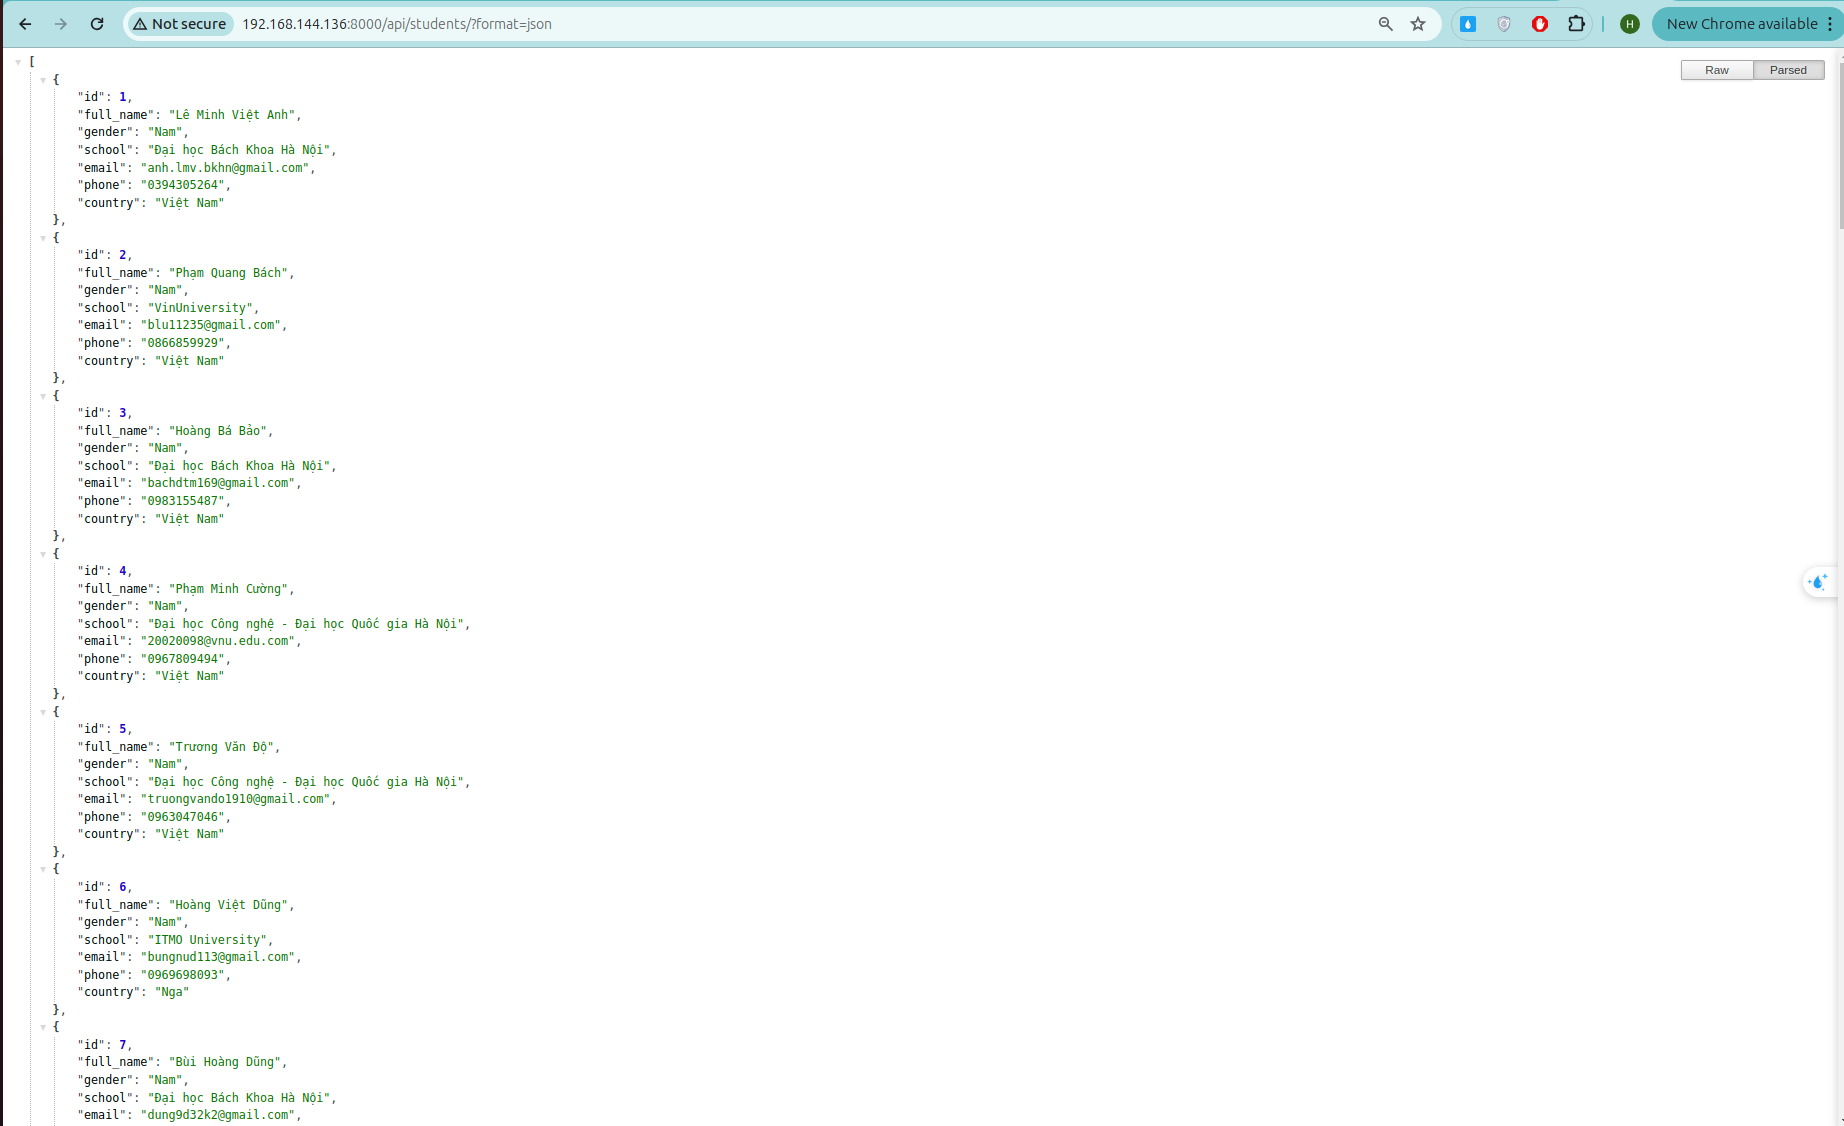
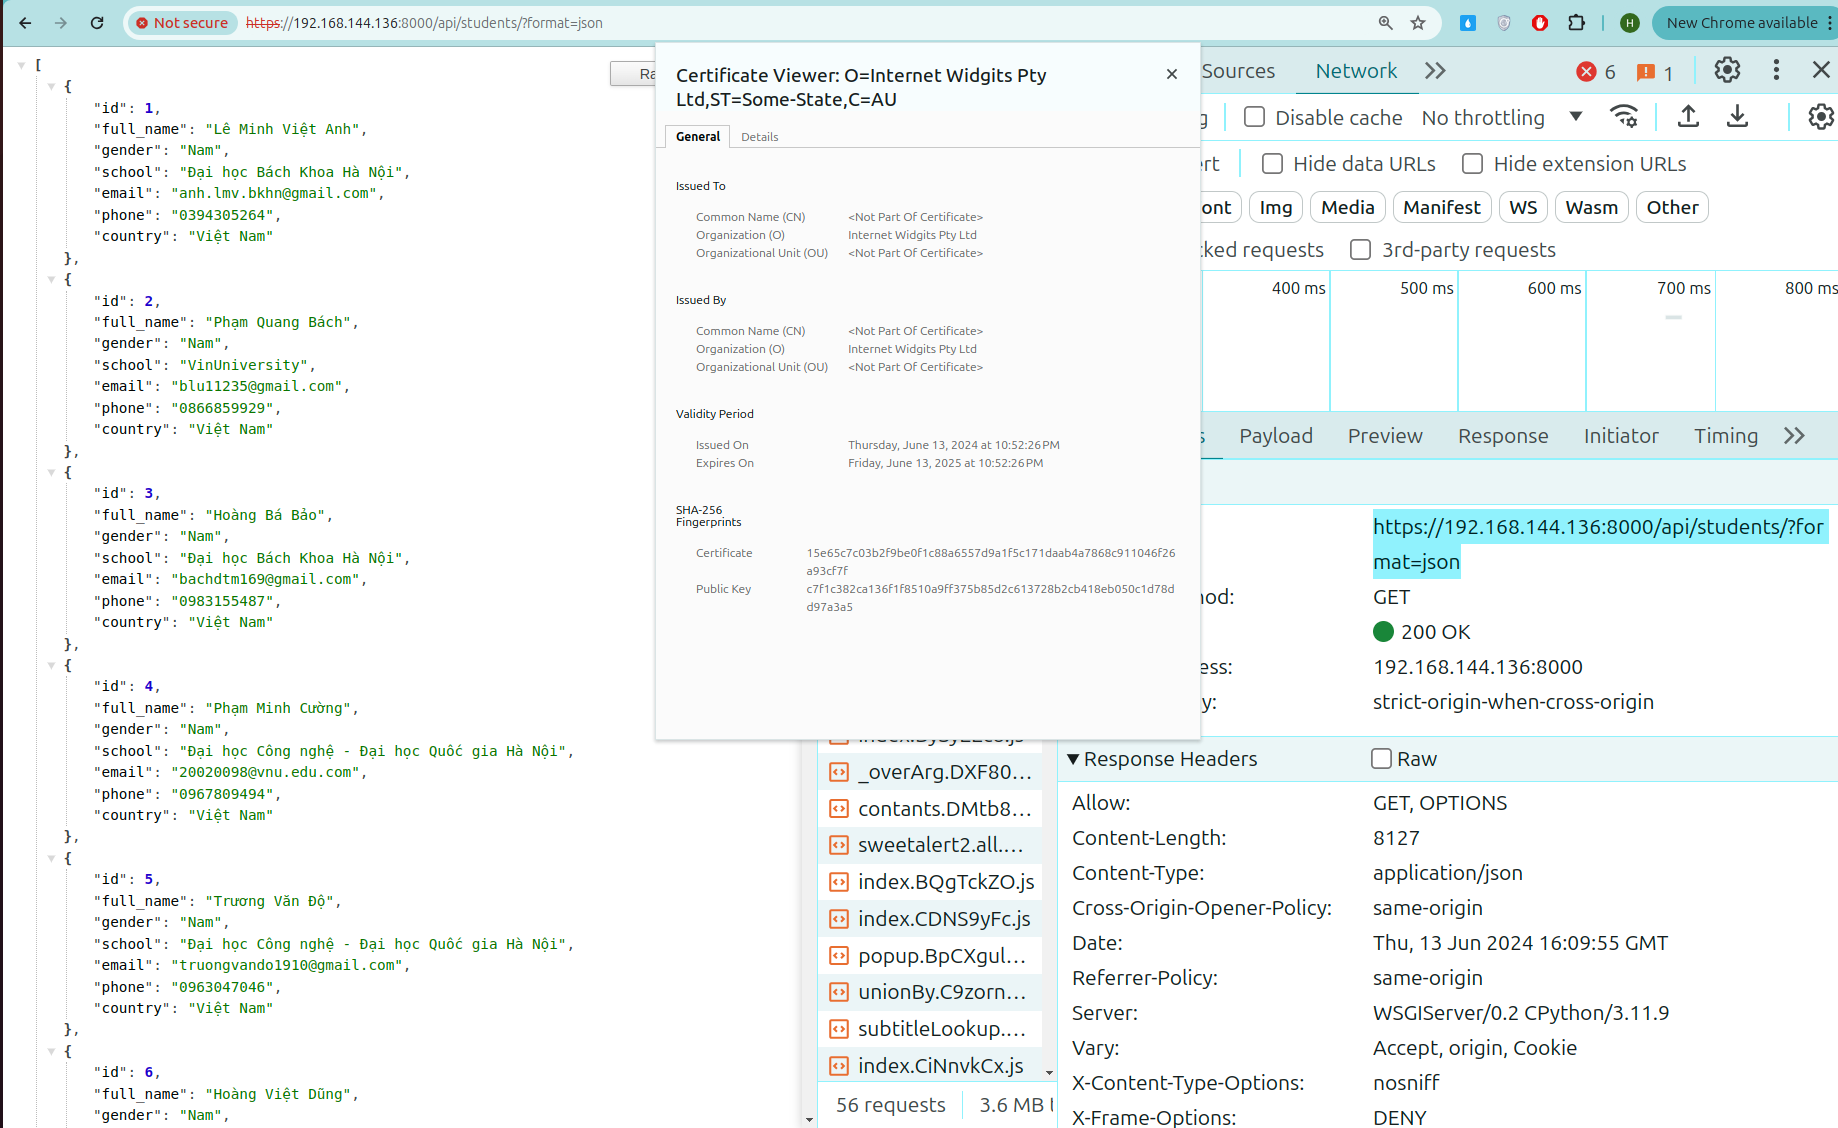
Update Security/Security.md

diff --git a/BuiHoangVinh-cuoi-ky-gd-1/6. Security/Security.md b/BuiHoangVinh-cuoi-ky-gd-1/6. Security/Security.md
@@ -9,47 +9,51 @@
 VM Master node có IP: 192.168.144.143
 VM Worker node có IP: 192.168.144.145
 Chạy trên 1 VM Mới có IP là 192.168.144.136
+
+### Tạo self signed cert:
+```
+# cài đặt OpenSSL
+sudo apt-get install openssl
+
+# Tạo chứng chỉ tự ký
+sudo openssl req -new -x509 -key /etc/ssl/private/haproxy-selfsigned.key -out /etc/ssl/certs/haproxy-selfsigned.crt -days 365
+
+# Kết hợp khóa và chứng chỉ thành file PEM
+cat /etc/ssl/private/haproxy-selfsigned.key /etc/ssl/certs/haproxy-selfsigned.crt > /etc/ssl/private/haproxy.pem
+```
+
+### Haproxy được cấu hính sử dụng SSL https với chứng chỉ self signed cert
+
+File haproxy.cfg
 ```
 global
-        log /dev/log    local0
-        log /dev/log    local1 notice
-        chroot /var/lib/haproxy
-        stats socket /run/haproxy/admin.sock mode 660 level admin expose-fd listeners
-        stats timeout 30s
-        user haproxy
-        group haproxy
-        daemon
+    log /dev/log    local0
+    log /dev/log    local1 notice
+    chroot /var/lib/haproxy
+    stats socket /run/haproxy/admin.sock mode 660 level admin
+    stats timeout 30s
+    user haproxy
+    group haproxy
+    daemon
 
-        # Default SSL material locations
-        ca-base /etc/ssl/certs
-        crt-base /etc/ssl/private
-
-        # See: https://ssl-config.mozilla.org/#server=haproxy&server-version=2.0.3&config=intermediate
-        ssl-default-bind-ciphers ECDHE-ECDSA-AES128-GCM-SHA256:ECDHE-RSA-AES128-GCM-SHA256:ECDHE-ECDSA-AES256-GCM-SHA384:ECDHE-RSA-AES256-GCM-SHA384:ECDHE-ECDSA-CHACHA20-POLY1305:ECDHE-RSA-CHACHA20-POLY1305:DHE-RSA-AES128-GCM-SHA256:DHE-RSA-AES256-GCM-SHA384
-        ssl-default-bind-ciphersuites TLS_AES_128_GCM_SHA256:TLS_AES_256_GCM_SHA384:TLS_CHACHA20_POLY1305_SHA256
-        ssl-default-bind-options ssl-min-ver TLSv1.2 no-tls-tickets
+    # Tuning SSL
+    tune.ssl.default-dh-param 2048
 
 defaults
-        log     global
-        mode    http
-        option  httplog
-        option  dontlognull
-        timeout connect 5000
-        timeout client  50000
-        timeout server  50000
-        errorfile 400 /etc/haproxy/errors/400.http
-        errorfile 403 /etc/haproxy/errors/403.http
-        errorfile 408 /etc/haproxy/errors/408.http
-        errorfile 500 /etc/haproxy/errors/500.http
-        errorfile 502 /etc/haproxy/errors/502.http
-        errorfile 503 /etc/haproxy/errors/503.http
-        errorfile 504 /etc/haproxy/errors/504.http
+    log     global
+    mode    http
+    option  httplog
+    option  dontlognull
+    timeout connect 5000
+    timeout client  50000
+    timeout server  50000
+
 frontend web_port_in
-    bind *:3000
+    bind *:3000 ssl crt /etc/ssl/private/haproxy.pem #file chứng chỉ
     mode tcp
     default_backend web_port_out
 frontend api_port_in
-    bind *:8000
+    bind *:8000 ssl crt /etc/ssl/private/haproxy.pem #file chứng chỉ
     mode tcp
     default_backend api_port_out
 backend web_port_out
@@ -63,11 +67,15 @@ backend api_port_out
     server api1 192.168.144.143:30002 check
     server api2 192.168.144.145:30002 check
 ```
+
+
 ## Kết quả:
-Truy cập Web service thông qua LB: http://192.168.144.136:3000
+Truy cập Web service thông qua LB: https://192.168.144.136:3000
+
+Hình ảnh chứng chỉ SSL self signed cert và call api tới API Service qua url: https://192.168.144.136:8000/api/students/?query=
 ![alt text](./images/lb-web.png)
 
-Truy cập API service thông qua LB: http://192.168.144.136:8000/api/students/
+Truy cập API service thông qua LB: https://192.168.144.136:8000/api/students/
 ![alt text](./images/lb-api.png)
 
 ## Yêu cầu 2:
